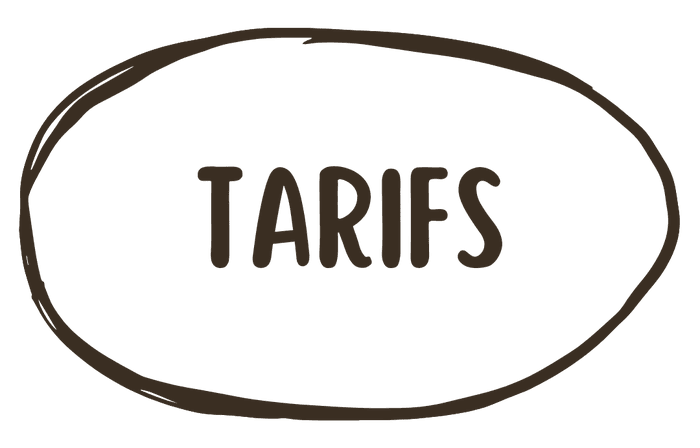
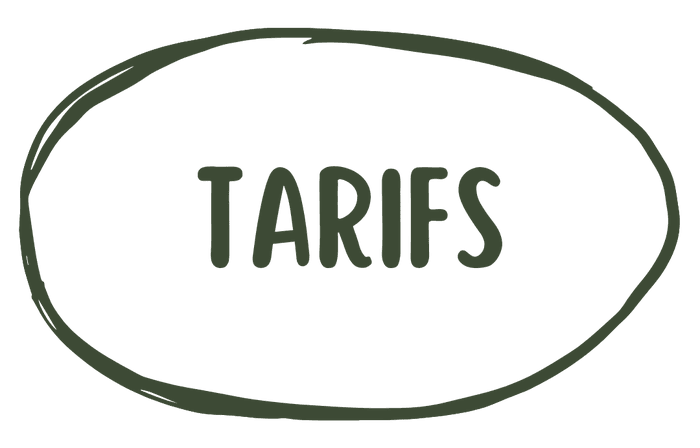
new color

Changed region(s): [[0.03, 0.0625, 0.99, 0.9375], [0.27, 0.375, 0.72, 0.5938]]

diff --git a/css/style.css b/css/style.css
@@ -1,8 +1,9 @@
 /* ===========================================================
-   DAS GOE — design tokens, v3
-   Kleurenschema C — "Zonnig & toegankelijk": licht en warm,
-   coral + mosterd, donker enkel nog in de footer. Contrast
-   berekend en getoetst aan WCAG AA/AAA (zie README).
+   DAS GOE — design tokens, v4
+   Kleurenschema 9 — "Krijtbord & stift": warm chalkboard-groen,
+   marker-oranje en krijtgeel. Sluit aan bij de eigen handgetekende
+   correctie-bubbels (marker op bord). Contrast berekend en getoetst
+   aan WCAG AA (zie README/checklist bij deze levering).
    Signatuur: handgetekende "correctie"-bubbels — een knipoog
    naar "fouten vieren, perfectie is niet de poort".
 
@@ -11,23 +12,23 @@
    =========================================================== */
 
 :root{
-  /* kleur — basis */
-  --paper:      #FFFBF2;
-  --paper-soft: #FFFDF8;
-  --tint:       #FBEAD3;
-  --ink:        #3A2E22;
+  /* kleur — basis (palet 9: Krijtbord & stift) */
+  --paper:      #FBF6EA;
+  --paper-soft: #FFFDF6;
+  --tint:       #EDE8D2;
+  --ink:        #3D4A35;
 
   /* kleur — accenten */
-  --coral:      #B84325;
-  --coral-light:#E2603A;
-  --mustard:    #E8A23D;
-  --mustard-text:#8A5A16;
+  --coral:      #B84E24;
+  --coral-light:#E8734A;
+  --mustard:    #F0C94E;
+  --mustard-text:#8C6A0E;
 
   /* kleur — enige overgebleven donkere vlak: footer/slot-CTA */
-  --deep:       #3A2418;
+  --deep:       #2A3324;
 
-  --line-soft:  rgba(58,46,34,.14);
-  --line-dark:  rgba(255,251,242,.18);
+  --line-soft:  rgba(61,74,53,.14);
+  --line-dark:  rgba(251,246,234,.18);
 
   /* type */
   --font-display: 'Fraunces', Georgia, serif;
